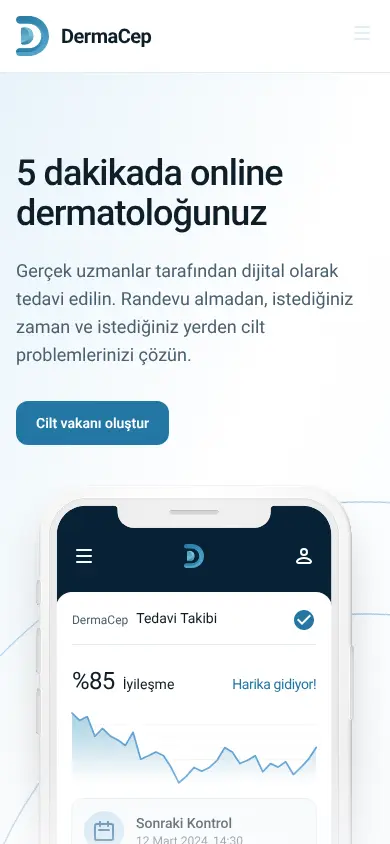
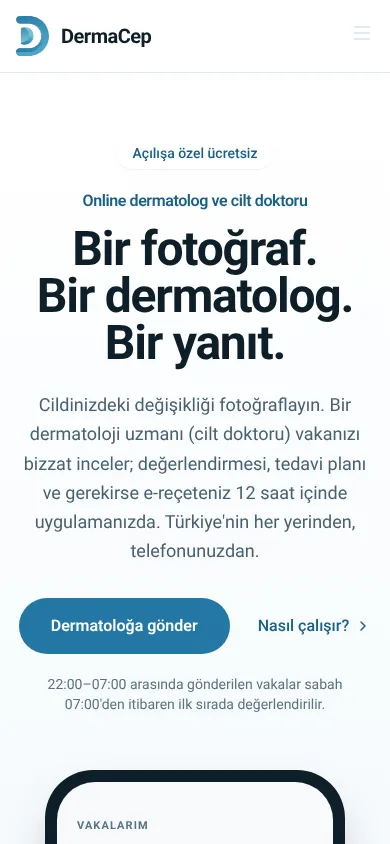
feat(web): DermaCep first in portfolio, screenshot from the current dermacep.com home page
Claude-Session: https://claude.ai/code/session_01L6JVrAG7mRKwzbHZPm4Fuo

Changed region(s): [[0.0308, 0.4621, 0.9538, 1.0], [0.0308, 0.154, 0.9231, 0.4313]]

diff --git a/apps/web/src/data/portfolio.ts b/apps/web/src/data/portfolio.ts
@@ -785,8 +785,12 @@ const ALL: Project[] = [
 
 export const GROUPS: Group[] = ["app", "site", "tool"];
 
-/** Grouped order: web apps, websites (platform first), open-source tools. */
-export const PROJECTS: Project[] = GROUPS.flatMap((g) => ALL.filter((p) => p.group === g));
+/** Grouped order: web apps (DermaCep first), websites (platform first), open-source tools. */
+const FIRST = ["dermacep"];
+const rank = (p: Project) => (FIRST.includes(p.slug) ? FIRST.indexOf(p.slug) : FIRST.length);
+export const PROJECTS: Project[] = GROUPS.flatMap((g) =>
+  ALL.filter((p) => p.group === g).sort((a, b) => rank(a) - rank(b)),
+);
 
 export const GROUP_LABEL: Record<Locale, Record<Group, string>> = {
   tr: { app: "Web uygulamaları", site: "Web siteleri", tool: "Açık kaynak araçlar" },
